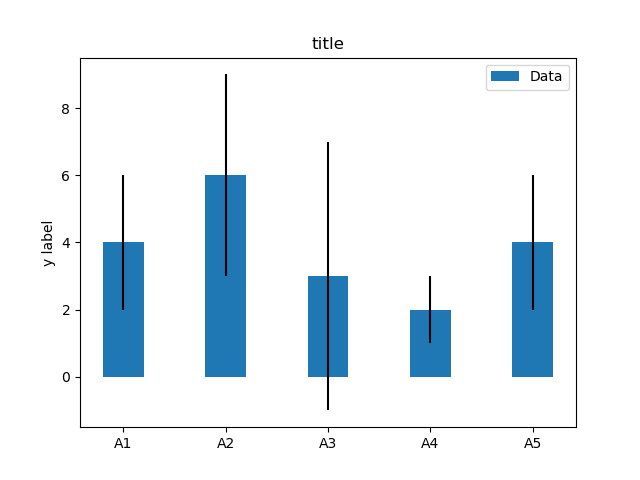
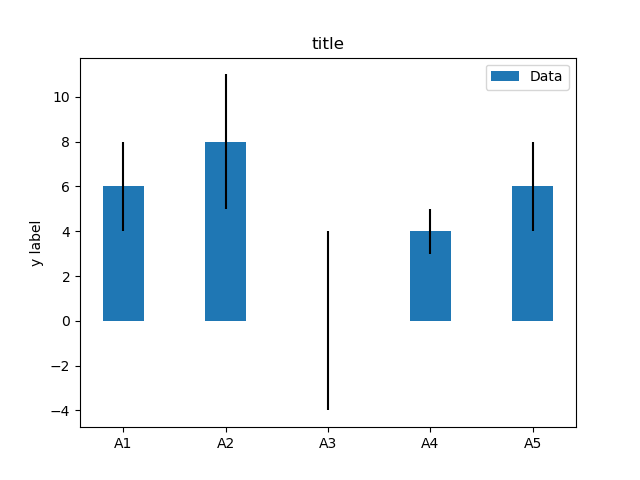
first commit

diff --git a/example.py b/example.py
@@ -2,7 +2,7 @@ import numpy as np
 import matplotlib.pyplot as plt
 
 labels = ['A1', 'A2', 'A3', 'A4', 'A5']
-m_means = [4,6,3,2,4]
+m_means = [6,8,0,4,6]
 m_std = [2, 3, 4, 1, 2]
 width = 0.40       # the width of the bars
 

diff --git a/README.md b/README.md
@@ -1,4 +1,4 @@
-# Matplotlib no 186 
+# Matplotlib no 187 
 
 python example
 
